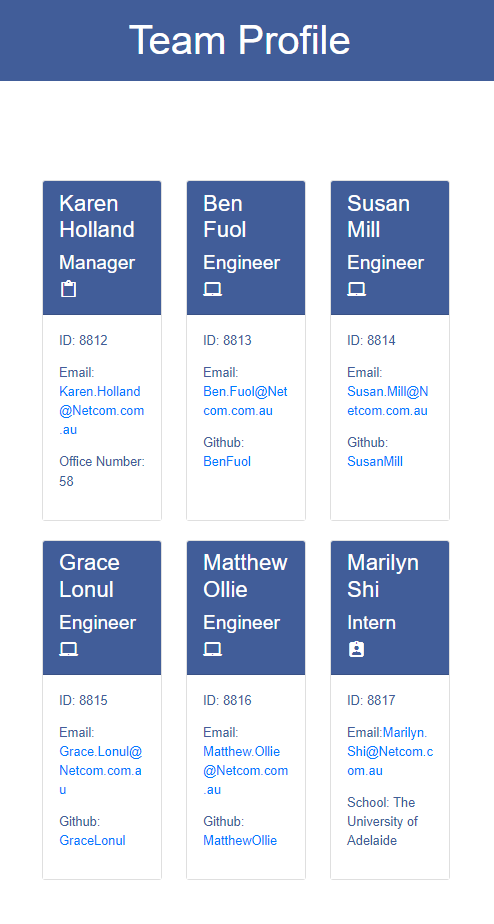
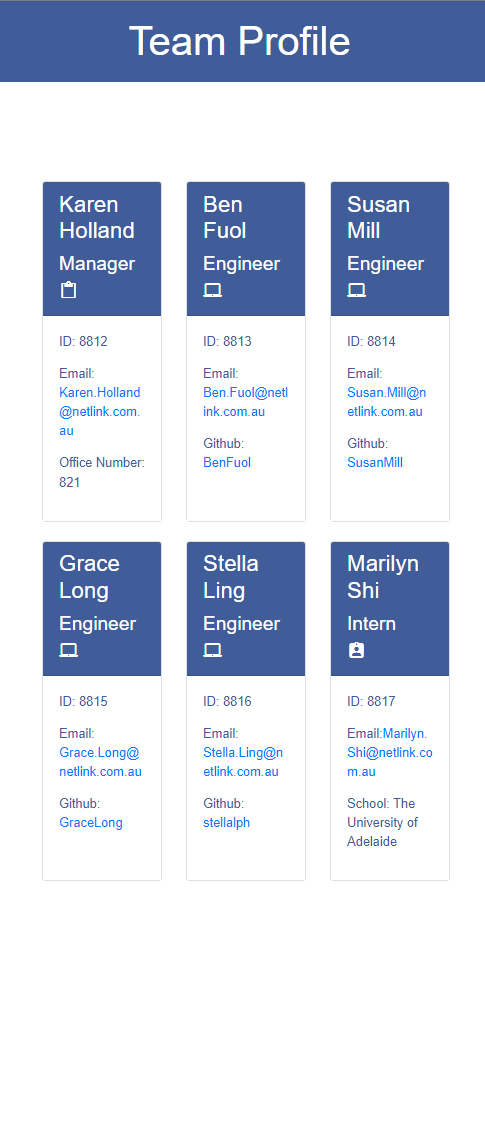
modify index.html and adding images

diff --git a/dist/index.html b/dist/index.html
@@ -4,23 +4,25 @@
   <head>
       <meta charset="UTF-8">
       <meta name="viewport" content="width=device-width, initial-scale=1.0">
-      <title>TEAM PROFILE</title>
+      <title>Team Profile</title>
+
+      <!-- FontsAwesome -->
+
       <link rel="stylesheet" href="https://cdnjs.cloudflare.com/ajax/libs/font-awesome/5.11.2/css/all.min.css">
       <link href="https://fonts.googleapis.com/css?family=Public+Sans:300i,300,500&display=swap" rel="stylesheet">
-     
+
       <!-- CSS Bootstrap -->
-      
       <link rel="stylesheet" href="https://stackpath.bootstrapcdn.com/bootstrap/4.5.0/css/bootstrap.min.css" integrity="sha384-9aIt2nRpC12Uk9gS9baDl411NQApFmC26EwAOH8WgZl5MYYxFfc+NcPb1dKGj7Sk" crossorigin="anonymous">
       <link href="https://fonts.googleapis.com/icon?family=Material+Icons" rel="stylesheet">
-         
-      <!-- Link to CSS Stylesheet -->
+      
+      <!--  Link to Local StyleSheet -->
 
       <link rel="stylesheet" href="style.css">
   </head>
   <body>
       <header>
           <nav class="navbar" id="navbar">
-              <span class="navbar-brand mb-0 h1 w-100 text-center" id="navbar-text">TEAM PROFILE</span>
+              <span class="navbar-brand mb-0 h1 w-100 text-center" id="navbar-text">Team Profile</span>
           </nav>
       </header>
       <main>
@@ -28,6 +30,7 @@
               <div class="row justify-content-center" id="team-cards">
 
                   <!--Team Cards-->
+
                   
     <div class="col-4 mt-4">
         <div class="card h-100">
@@ -37,8 +40,8 @@
             </div>
             <div class="card-body">
                 <p class="id">ID: 8812</p>
-                <p class="email">Email: <a href="mailto:Karen.Holland@Netcom.com.au">Karen.Holland@Netcom.com.au</a></p>
-                <p class="office">Office Number: 58</p>
+                <p class="email">Email: <a href="mailto:Karen.Holland@netlink.com.au">Karen.Holland@netlink.com.au</a></p>
+                <p class="office">Office Number: 821</p>
             </div>
         </div>
     </div>
@@ -51,7 +54,7 @@
             </div>
             <div class="card-body">
                 <p class="id">ID: 8813</p>
-                <p class="email">Email: <a href="mailto:Ben.Fuol@Netcom.com.au">Ben.Fuol@Netcom.com.au</a></p>
+                <p class="email">Email: <a href="mailto:Ben.Fuol@netlink.com.au">Ben.Fuol@netlink.com.au</a></p>
                 <p class="github">Github: <a href="https://github.com/BenFuol">BenFuol</a></p>
             </div>
         </div>
@@ -65,7 +68,7 @@
             </div>
             <div class="card-body">
                 <p class="id">ID: 8814</p>
-                <p class="email">Email: <a href="mailto:Susan.Mill@Netcom.com.au">Susan.Mill@Netcom.com.au</a></p>
+                <p class="email">Email: <a href="mailto:Susan.Mill@netlink.com.au">Susan.Mill@netlink.com.au</a></p>
                 <p class="github">Github: <a href="https://github.com/SusanMill">SusanMill</a></p>
             </div>
         </div>
@@ -74,13 +77,13 @@
     <div class="col-4 mt-4">
         <div class="card h-100">
             <div class="card-header">
-                <h3>Grace Lonul</h3>
+                <h3>Grace Long</h3>
                 <h4>Engineer</h4><i class="material-icons">laptop_mac</i>
             </div>
             <div class="card-body">
                 <p class="id">ID: 8815</p>
-                <p class="email">Email: <a href="mailto:Grace.Lonul@Netcom.com.au">Grace.Lonul@Netcom.com.au</a></p>
-                <p class="github">Github: <a href="https://github.com/GraceLonul">GraceLonul</a></p>
+                <p class="email">Email: <a href="mailto:Grace.Long@netlink.com.au">Grace.Long@netlink.com.au</a></p>
+                <p class="github">Github: <a href="https://github.com/GraceLong">GraceLong</a></p>
             </div>
         </div>
     </div>
@@ -88,13 +91,13 @@
     <div class="col-4 mt-4">
         <div class="card h-100">
             <div class="card-header">
-                <h3>Matthew Ollie</h3>
+                <h3>Stella Ling</h3>
                 <h4>Engineer</h4><i class="material-icons">laptop_mac</i>
             </div>
             <div class="card-body">
                 <p class="id">ID: 8816</p>
-                <p class="email">Email: <a href="mailto:Matthew.Ollie@Netcom.com.au">Matthew.Ollie@Netcom.com.au</a></p>
-                <p class="github">Github: <a href="https://github.com/MatthewOllie">MatthewOllie</a></p>
+                <p class="email">Email: <a href="mailto:Stella.Ling@netlink.com.au">Stella.Ling@netlink.com.au</a></p>
+                <p class="github">Github: <a href="https://github.com/stellalph">stellalph</a></p>
             </div>
         </div>
     </div>
@@ -107,7 +110,7 @@
             </div>
             <div class="card-body">
                 <p class="id">ID: 8817</p>
-                <p class="email">Email:<a href="mailto:Marilyn.Shi@Netcom.com.au">Marilyn.Shi@Netcom.com.au</a></p>
+                <p class="email">Email:<a href="mailto:Marilyn.Shi@netlink.com.au">Marilyn.Shi@netlink.com.au</a></p>
                 <p class="school">School: The University of Adelaide</p>
             </div>
     </div>
@@ -118,8 +121,9 @@
       </main>
       
   </body>
- <!-- JS, Popper.js, and jQuery -->
-<script src="https://code.jquery.com/jquery-3.5.1.slim.min.js" integrity="sha384-DfXdz2htPH0lsSSs5nCTpuj/zy4C+OGpamoFVy38MVBnE+IbbVYUew+OrCXaRkfj" crossorigin="anonymous"></script>
-<script src="https://cdn.jsdelivr.net/npm/popper.js@1.16.0/dist/umd/popper.min.js" integrity="sha384-Q6E9RHvbIyZFJoft+2mJbHaEWldlvI9IOYy5n3zV9zzTtmI3UksdQRVvoxMfooAo" crossorigin="anonymous"></script>
-<script src="https://stackpath.bootstrapcdn.com/bootstrap/4.5.0/js/bootstrap.min.js" integrity="sha384-OgVRvuATP1z7JjHLkuOU7Xw704+h835Lr+6QL9UvYjZE3Ipu6Tp75j7Bh/kR0JKI" crossorigin="anonymous"></script> 
+
+  <!-- JS, Popper.js, and jQuery -->
+  <script src="https://code.jquery.com/jquery-3.5.1.slim.min.js" integrity="sha384-DfXdz2htPH0lsSSs5nCTpuj/zy4C+OGpamoFVy38MVBnE+IbbVYUew+OrCXaRkfj" crossorigin="anonymous"></script>
+  <script src="https://cdn.jsdelivr.net/npm/bootstrap@5.2.0-beta1/dist/js/bootstrap.bundle.min.js" integrity="sha384-pprn3073KE6tl6bjs2QrFaJGz5/SUsLqktiwsUTF55Jfv3qYSDhgCecCxMW52nD2" crossorigin="anonymous"></script> 
+  <script src="https://stackpath.bootstrapcdn.com/bootstrap/4.5.0/js/bootstrap.min.js" integrity="sha384-OgVRvuATP1z7JjHLkuOU7Xw704+h835Lr+6QL9UvYjZE3Ipu6Tp75j7Bh/kR0JKI" crossorigin="anonymous"></script>
   </html>

diff --git a/src/generateHTML.js b/src/generateHTML.js
@@ -24,7 +24,7 @@ const generateEngineer = function (engineer) {
         <div class="card h-100">
             <div class="card-header">
                 <h3>${engineer.name}</h3>
-                <h4>Engineer</h4><i class="material-icons">laptop_mac</i>
+                <h4>Engineer</h4><i class="material-icons">laptop-fill</i>
             </div>
             <div class="card-body">
                 <p class="id">ID: ${engineer.id}</p>
@@ -107,10 +107,18 @@ const generateTeamPage = function (employeeCards) {
       <meta charset="UTF-8">
       <meta name="viewport" content="width=device-width, initial-scale=1.0">
       <title>Team Profile</title>
+
+      <!-- FontsAwesome -->
+
       <link rel="stylesheet" href="https://cdnjs.cloudflare.com/ajax/libs/font-awesome/5.11.2/css/all.min.css">
       <link href="https://fonts.googleapis.com/css?family=Public+Sans:300i,300,500&display=swap" rel="stylesheet">
+
+      <!-- CSS Bootstrap -->
       <link rel="stylesheet" href="https://stackpath.bootstrapcdn.com/bootstrap/4.5.0/css/bootstrap.min.css" integrity="sha384-9aIt2nRpC12Uk9gS9baDl411NQApFmC26EwAOH8WgZl5MYYxFfc+NcPb1dKGj7Sk" crossorigin="anonymous">
       <link href="https://fonts.googleapis.com/icon?family=Material+Icons" rel="stylesheet">
+      
+      <!--  Link to Local StyleSheet -->
+
       <link rel="stylesheet" href="style.css">
   </head>
   <body>
@@ -122,15 +130,18 @@ const generateTeamPage = function (employeeCards) {
       <main>
           <div class="container">
               <div class="row justify-content-center" id="team-cards">
+
                   <!--Team Cards-->
+
                   ${employeeCards}
               </div>
           </div>
       </main>
       
   </body>
-  <script src="https://code.jquery.com/jquery-3.6.0.slim.min.js" integrity="sha256-u7e5khyithlIdTpu22PHhENmPcRdFiHRjhAuHcs05RI=" crossorigin="anonymous"></script>
-  <!-- JavaScript Bundle with Popper -->
+
+  <!-- JS, Popper.js, and jQuery -->
+  <script src="https://code.jquery.com/jquery-3.5.1.slim.min.js" integrity="sha384-DfXdz2htPH0lsSSs5nCTpuj/zy4C+OGpamoFVy38MVBnE+IbbVYUew+OrCXaRkfj" crossorigin="anonymous"></script>
   <script src="https://cdn.jsdelivr.net/npm/bootstrap@5.2.0-beta1/dist/js/bootstrap.bundle.min.js" integrity="sha384-pprn3073KE6tl6bjs2QrFaJGz5/SUsLqktiwsUTF55Jfv3qYSDhgCecCxMW52nD2" crossorigin="anonymous"></script> 
   <script src="https://stackpath.bootstrapcdn.com/bootstrap/4.5.0/js/bootstrap.min.js" integrity="sha384-OgVRvuATP1z7JjHLkuOU7Xw704+h835Lr+6QL9UvYjZE3Ipu6Tp75j7Bh/kR0JKI" crossorigin="anonymous"></script>
   </html>

diff --git a/index.js b/index.js
@@ -82,9 +82,9 @@ const addManager = () => {
 
 const addEmployee = () => {
     console.log(`
-    =================
-    Adding employees to the team
-    =================
+    =================================
+    ADD EMPLOYEES TO THE TEAM PROFILE
+    =================================
     `);
 
     return inquirer.prompt ([

diff --git a/dist/style.css b/dist/style.css
@@ -15,6 +15,7 @@ body {
     background-color: var(--primary);
     color: var(--secondary);
     font-size: 50px;
+   
 }
 
 .navbar-brand {
@@ -25,6 +26,7 @@ body {
 .card-header {
     background-color: var(--primary);
     color: var(--secondary);
+
 }
 
 .card-body {
